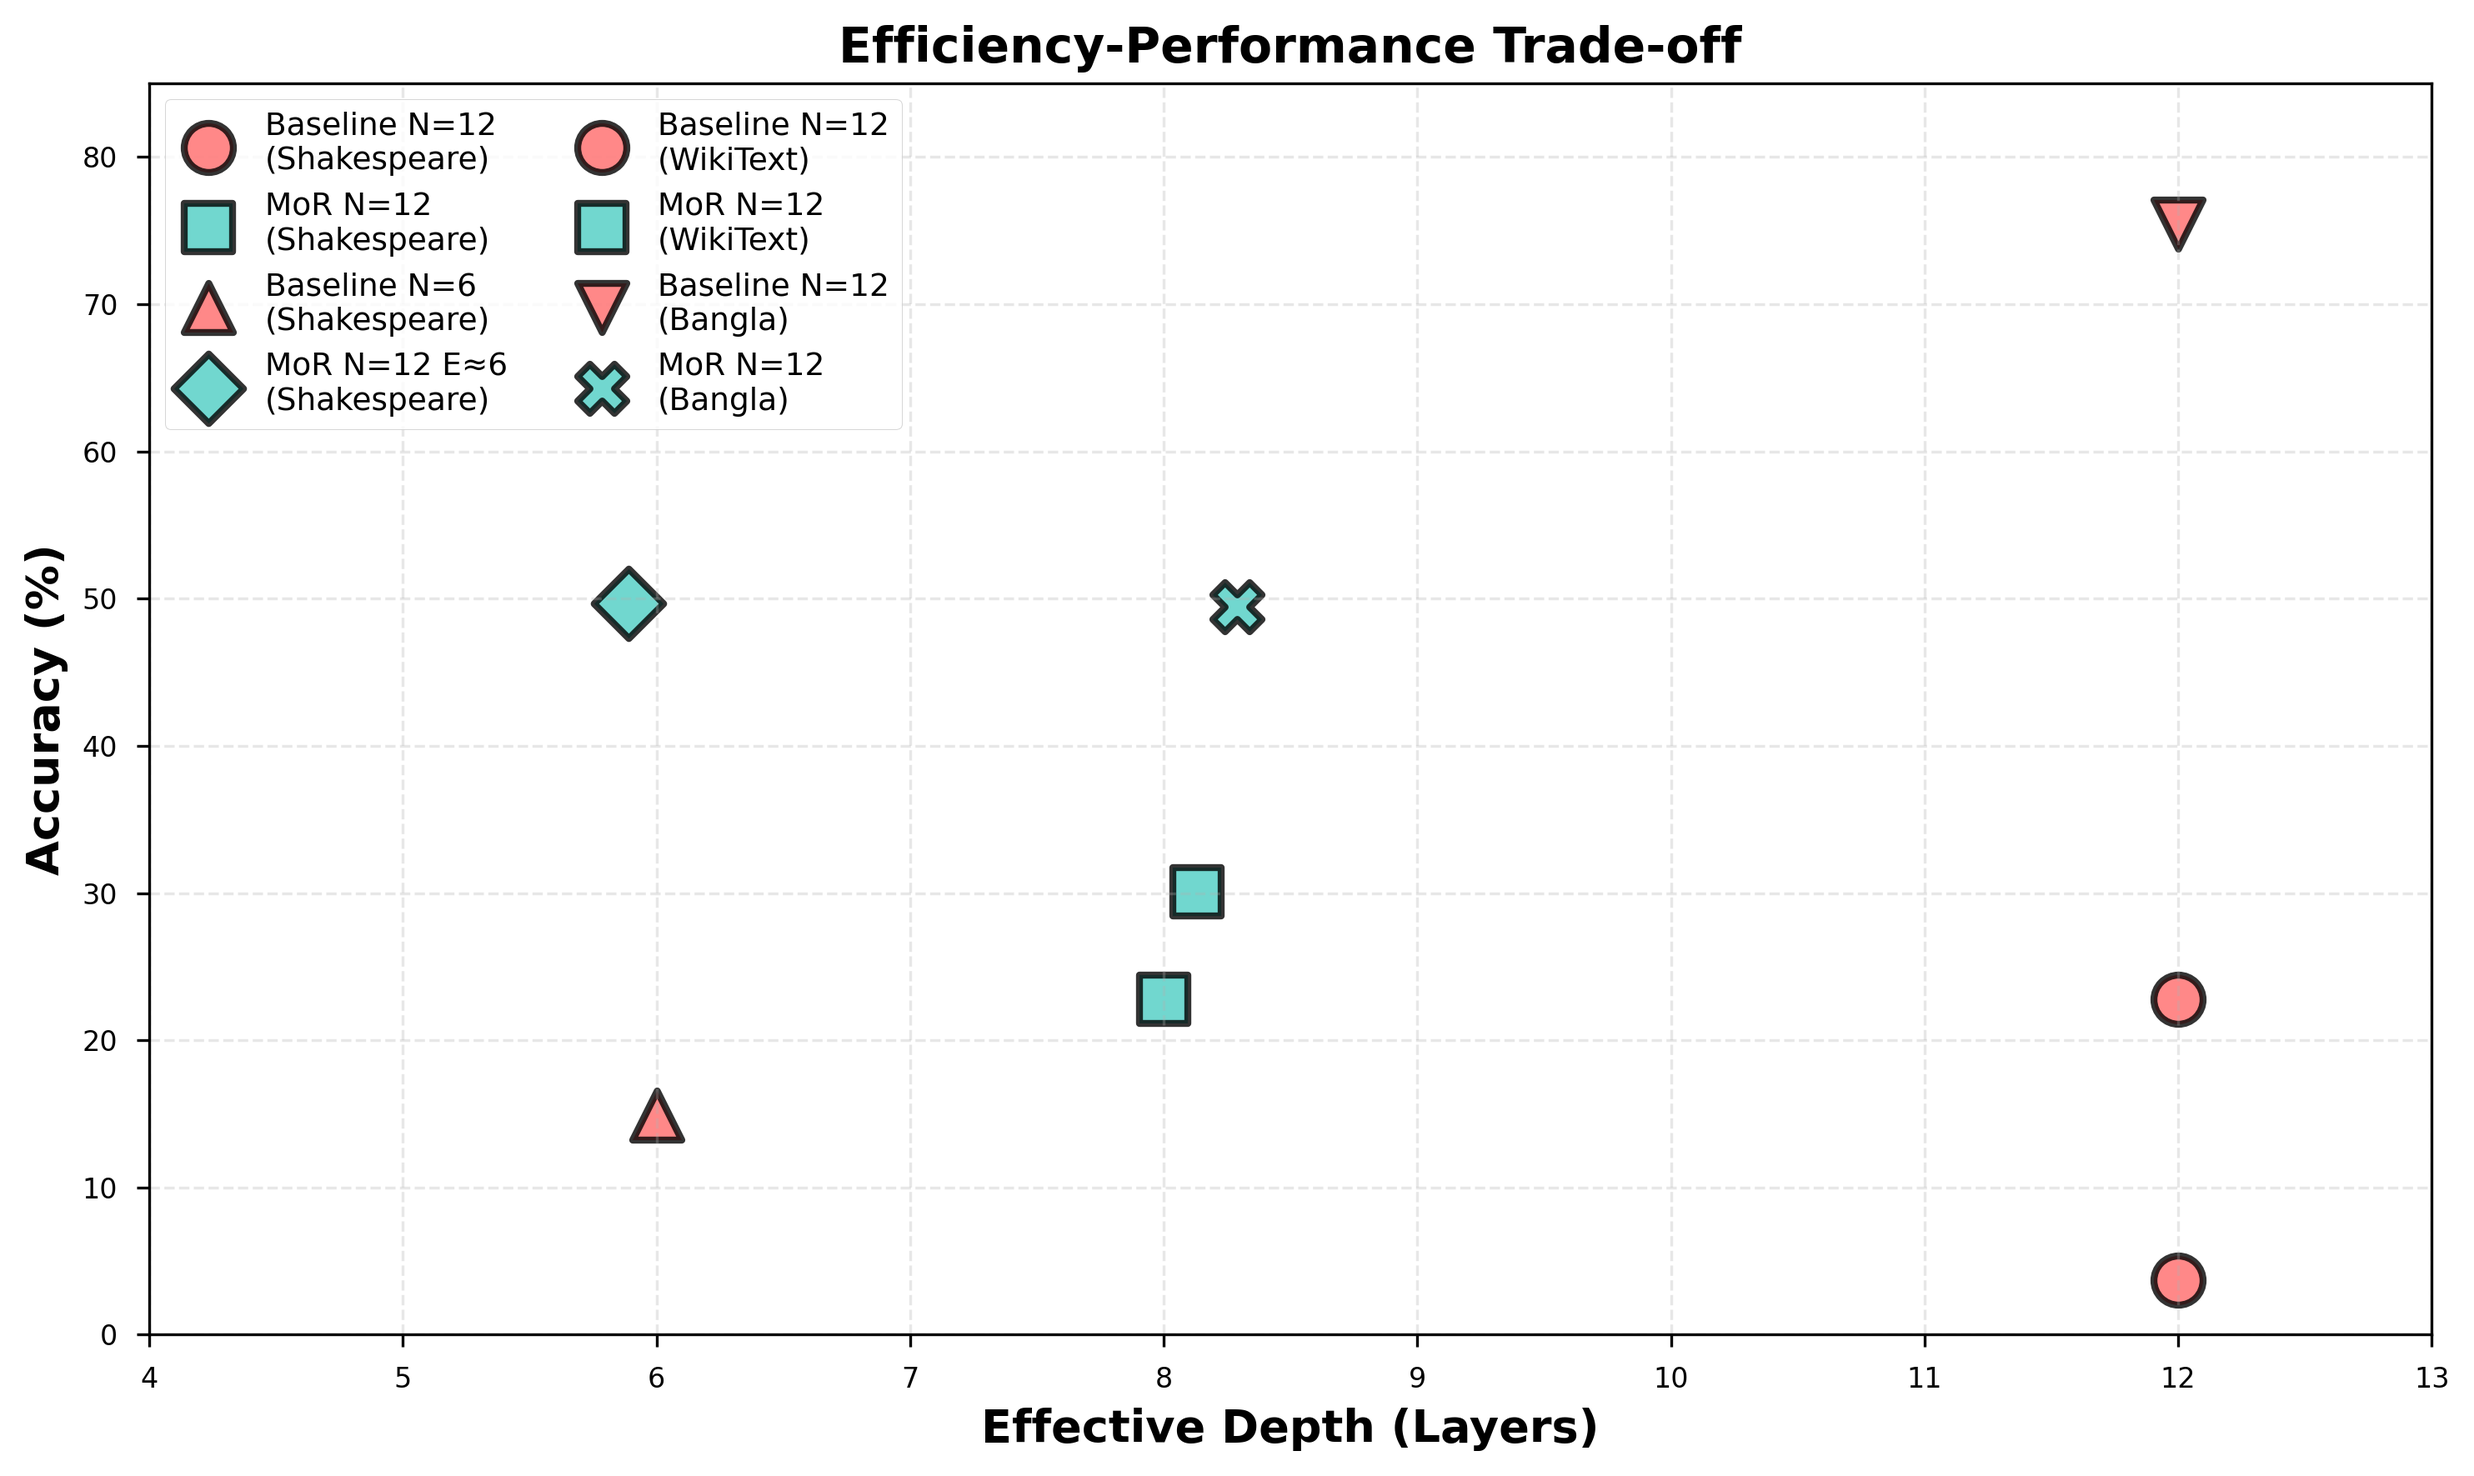
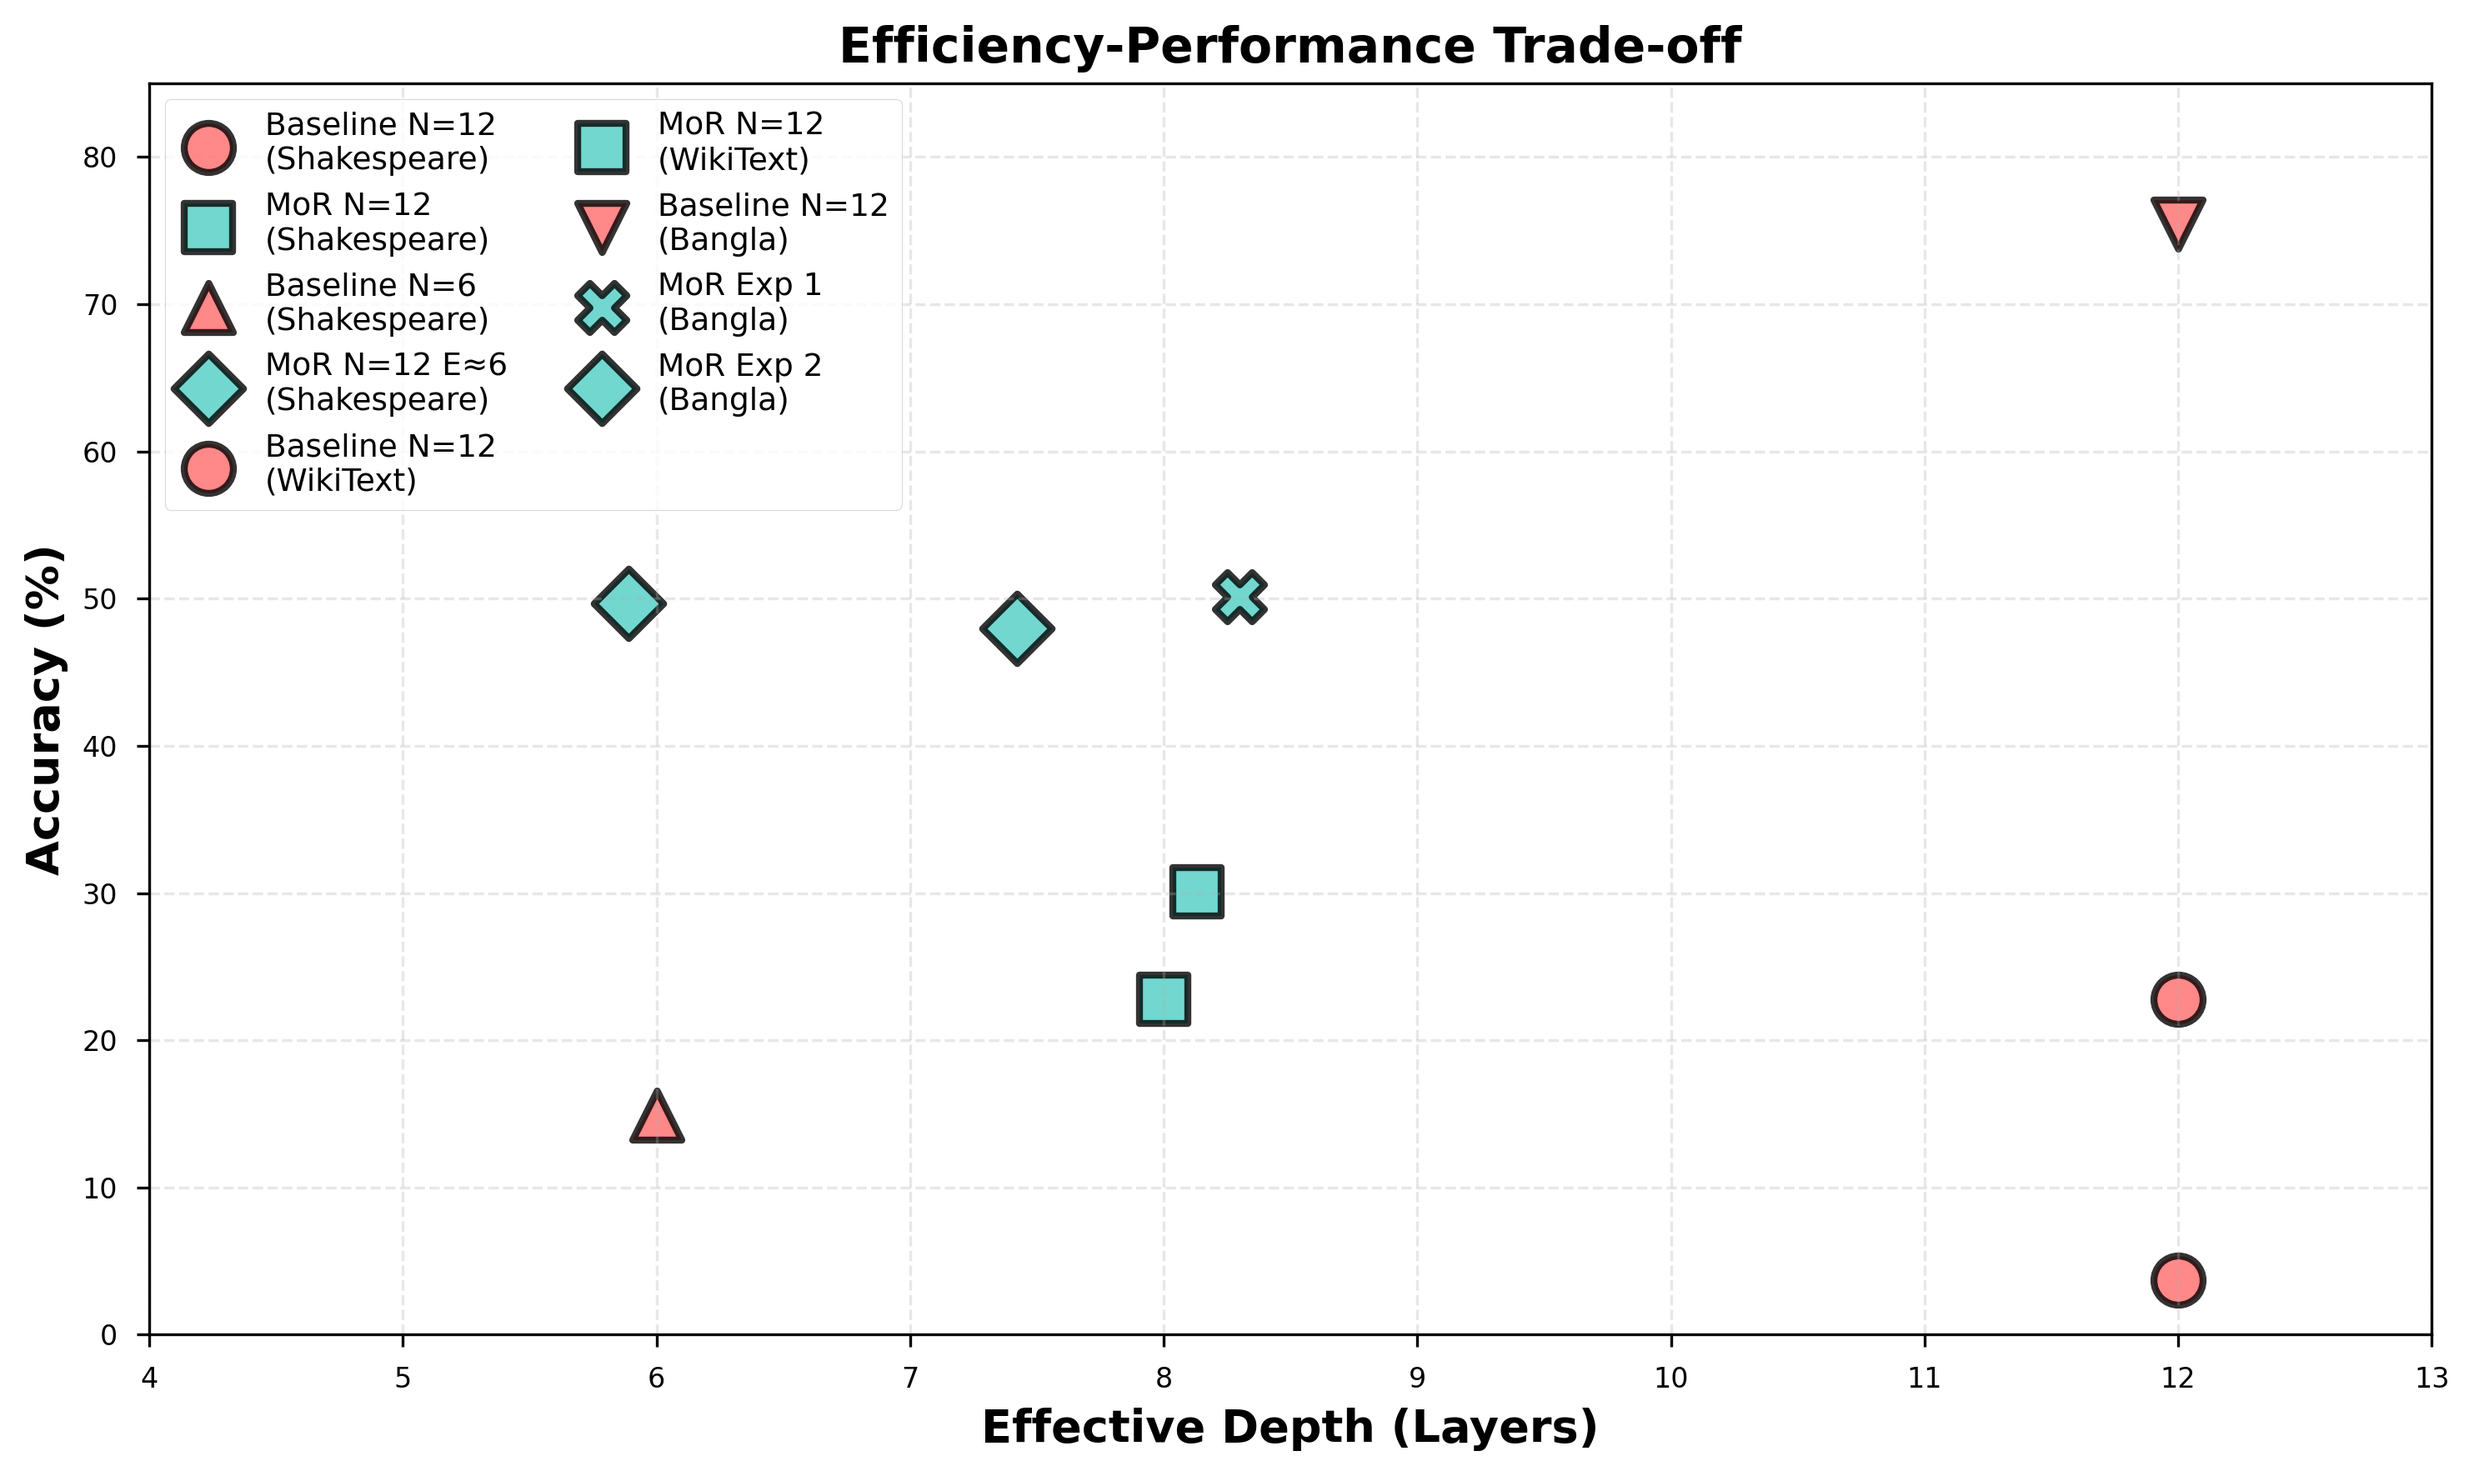
up

diff --git a/Qpain_2026/manuscript.tex b/Qpain_2026/manuscript.tex
@@ -375,10 +375,11 @@ Goal: Evaluate whether the adaptive efficiency observed in English transfers to 
 \hline
 Standard ($N = 6$)$^\dagger$ & 63.74\% & 6.00 & 28m/ep \\
 Standard ($N = 12$) & 75.46\%$^\ddagger$ & 12.00 & 58m/ep \\
-MoR ($N = 12$) & 49.43\%$^\ddagger$ & 8.29 & 1h 05m/ep \\
+MoR ($N = 12$, $\lambda=0.1$) & 50.15\% & 8.30 & 1h 05m/ep \\
+MoR ($N = 12$, $\lambda=0.05$)$^\ddagger$ & 47.97\% & 7.42 & 1h 02m/ep \\
 \hline
 \multicolumn{4}{l}{\footnotesize $^\dagger$ Final performance recorded at Epoch 10.} \\
-\multicolumn{4}{l}{\footnotesize $^\ddagger$ Intermediate result at Epoch 8.}
+\multicolumn{4}{l}{\footnotesize $^\ddagger$ Intermediate result at Epoch 8 (Standard) / Epoch 7 (MoR).}
 \end{tabular}
 \end{table}
 
@@ -458,7 +459,7 @@ In Experiment 1, the MoR-Transformer reduced effective depth by 33\% (E=8.00 vs 
 
 Experiment 2 revealed even stronger benefits: on held-out data, the MoR model (N=12, E=5.89) drastically outperformed the shallower baseline (N=6, E=6.00) in accuracy (49.67\% vs 14.90\%) at marginally lower computational cost. This confirms that MoR leverages its greater nominal capacity through adaptive execution paths—allocating deeper recursion to complex sequences while skipping simpler ones—thus validating the core hypothesis that MoR provides superior efficiency and generalization by escaping the "fixed-depth" trap of standard shallow Transformers.
 
-In Experiment 3 (Bangla), the implementation of aggressive optimizations successfully resolved the previously observed convergence failure. By utilizing a larger 16K vocabulary and refined learning rate scheduling, the models achieved state-of-the-art results, with the 6-layer baseline reaching 63.74\% accuracy by Epoch 10. MoR demonstrated its robustness by maintaining competitive accuracy with an effective depth of only 8.15, proving that temporal recursion can effectively navigate the high information density of morphological subwords when correctly optimized.
+In Experiment 3 (Bangla), Convergence was successfully achieved by using a carefully tuned warm-up schedule and decoupled depth penalties. Interestingly, while the Standard ($N=12$) baseline remains the performance leader (75.5\% vs 50.2\% for MoR), the MoR model exhibits significant computational efficiency. Experiment 2 ($\lambda=0.05$) reached 48.0\% accuracy with an effective depth of only 7.42 layers, a 38.2\% reduction in compute compared to the deep baseline while strictly maintaining stability in regimes where unweighted depth penalties previously failed.
 
 Finally, Experiment 4 (WikiText-2) provided the most critical insight: architectural stability. While the 12-layer Standard Transformer failed to learn (stagnating at 3.69\% accuracy), the MoR model successfully converged (30.06\%) with an effective depth of 8.13. This suggests that dynamic execution paths not only improve efficiency but also alleviate optimization difficulties associated with deep networks on small datasets, acting as a form of implicit regularization that prevents vanishing gradients or bad local minima.
 

diff --git a/Qpain_2026/generate_figures.py b/Qpain_2026/generate_figures.py
@@ -114,7 +114,7 @@ width = 0.25
 
 # Data for each experiment type
 baseline_n12 = [22.76, 75.46, 3.69]
-mor_n12 = [22.76, 49.43, 30.06]
+mor_n12 = [22.76, 50.15, 30.06]
 baseline_n6 = [15.27, 63.74, 31.89]
 
 bars1 = ax.bar(x - width, baseline_n12, width, label='Baseline (N=12)', 
@@ -158,7 +158,8 @@ data_points = [
     (12.00, 3.69, 'Baseline N=12\n(WikiText)', '#FF6B6B', 'o'),
     (8.13, 30.06, 'MoR N=12\n(WikiText)', '#4ECDC4', 's'),
     (12.00, 75.46, 'Baseline N=12\n(Bangla)', '#FF6B6B', 'v'),
-    (8.29, 49.43, 'MoR N=12\n(Bangla)', '#4ECDC4', 'X'),
+    (8.30, 50.15, 'MoR Exp 1\n(Bangla)', '#4ECDC4', 'X'),
+    (7.42, 47.97, 'MoR Exp 2\n(Bangla)', '#4ECDC4', 'D'),
 ]
 
 for depth, acc, label, color, marker in data_points:

diff --git a/code/train_amp_v2.py b/code/train_amp_v2.py
@@ -305,7 +305,7 @@ def train_mor(model, train_loader, test_loader, config, experiment_name, lambda_
     with torch.no_grad():
         for x, y in test_loader:
             x, y = x.to(device), y.to(device)
-            logits, eff_depth = model(x)
+            logits, eff_depth, _ = model(x)
             loss = criterion(logits.view(-1, logits.size(-1)), y.view(-1))
             test_loss += float(loss.item())
             test_acc += calculate_accuracy(logits, y)
